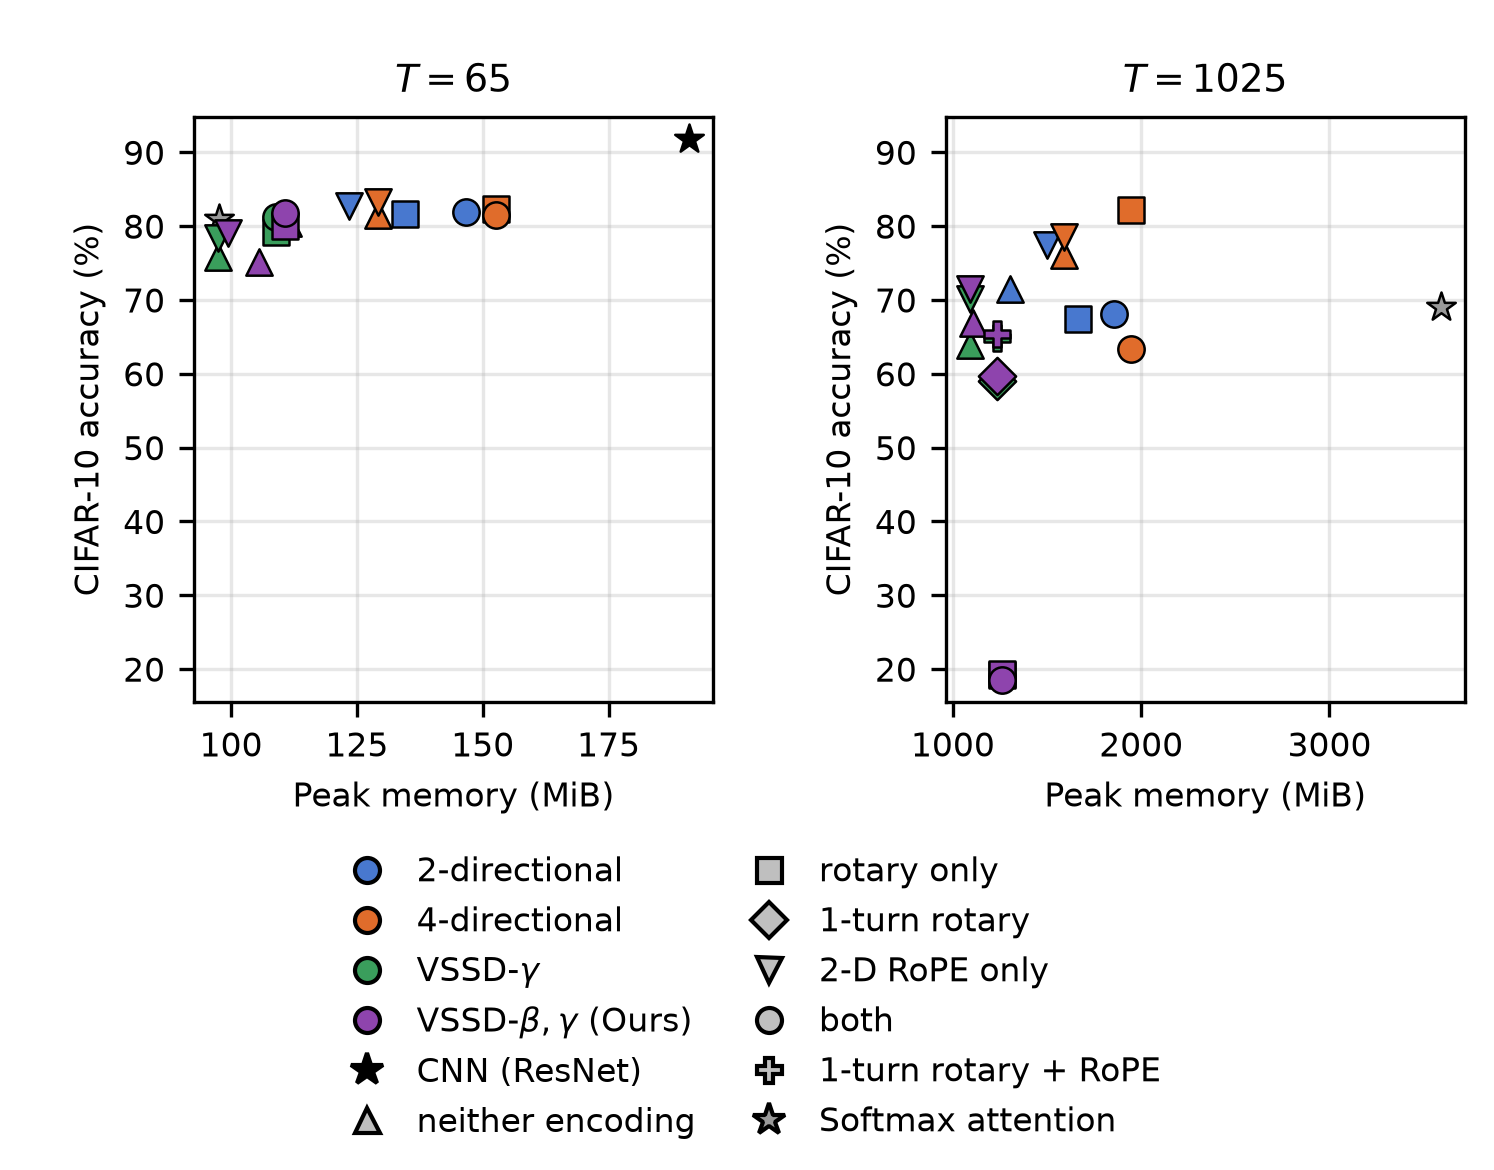
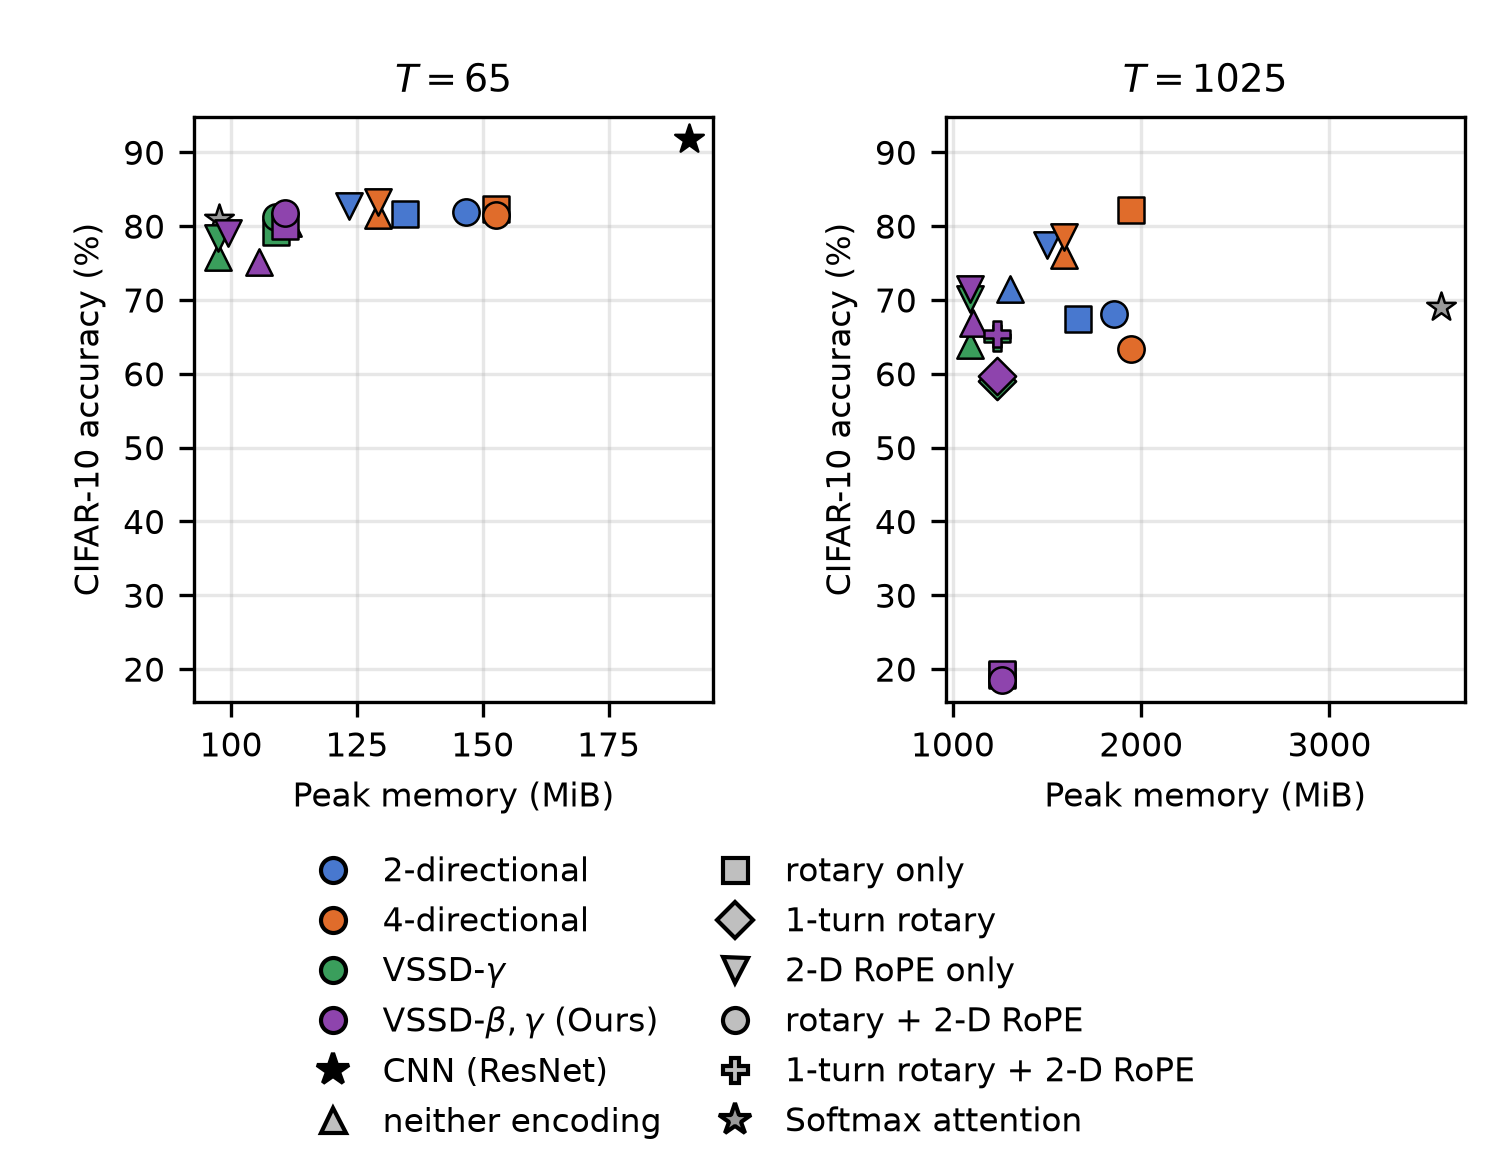
table/plot: name both encodings instead of saying "both"
With four encodings in the column, "both" does not say both of *which* -- the reader has to
work out which two of the four are meant. Once the 1-turn rows existed there were also two
different "both"s, "both" and "both (1 turn)", which is worse than vague.

  both            -> rotary + 2-D RoPE
  both (1 turn)   -> 1-turn rotary + 2-D RoPE
  rotary (1 turn) -> 1-turn rotary

"+" rather than ":" as the separator: a colon reads as "defines" or "elaborates", not
"combined with", and the caption already spelled the combined cell as "rotary + 2-D RoPE",
so a colon would have contradicted the text describing it. Both combined names are ordered
rotary-first for consistency.

The table strings carry LaTeX "$+$" while ENC_LABELS carries a plain "+", because the
latter are matplotlib legend strings where math delimiters would render literally.

Prose updated to match: the two Enc. legends in 8.6 and the "(1 turn) rows" pointer in 8.7,
plus 8.7's inline table header, which still read "1-turn rotary + RoPE".

Also fixed a caption claim the earlier row-merge had made stale: operator names print on
"the first row of its four-cell block", but the VSSD blocks have held six rows since the
1-turn rows moved inside them.

43 pages, no undefined references, overfull count unchanged at 4 (all pre-existing, none
the table -- the wider Enc. column still fits the text block, checked on the rendered page).

Changed region(s): [[0.2155, 0.7077, 0.8005, 0.9846]]

diff --git a/scripts/make_ablation_table.py b/scripts/make_ablation_table.py
@@ -43,18 +43,26 @@ OUT_DIR = REPO / "doc" / "attention"
 
 # Encoding keys. These are the literal strings printed in the table's Enc. column
 # and the keys for the plot's markers, so the two cannot disagree.
-NONE, ROT, ROPE, BOTH = "---", "rotary", "2-D RoPE", "both"
+#
+# The combined cells name both encodings rather than saying "both". With four encodings in
+# the column, "both" does not say both of *which* -- the reader has to look up which two of
+# the four it means, and once the 1-turn rows existed there were two different "both"s.
+NONE, ROT, ROPE = "---", "rotary", "2-D RoPE"
+BOTH = r"rotary $+$ 2-D RoPE"
 # The rotary with its angular spread pinned to one turn over the sequence, rather than a
 # learned cumulative angle whose spread grows with T. Measured only at T=1025, which is
 # where the learned form collapses; at T=65 its spread is already small enough that there
 # is nothing to repair.
-ROT1, BOTH1 = "rotary (1 turn)", "both (1 turn)"
+ROT1 = "1-turn rotary"
+BOTH1 = r"1-turn rotary $+$ 2-D RoPE"
 
 
 ENC_MARKERS = {NONE: "^", ROT: "s", ROPE: "v", BOTH: "o", ROT1: "D", BOTH1: "P"}
+# Plain "+" here, not the table's "$+$": these are matplotlib legend strings, where LaTeX
+# math delimiters would render literally.
 ENC_LABELS = {NONE: "neither encoding", ROT: "rotary only",
-              ROPE: "2-D RoPE only", BOTH: "both",
-              ROT1: "1-turn rotary", BOTH1: "1-turn rotary + RoPE"}
+              ROPE: "2-D RoPE only", BOTH: "rotary + 2-D RoPE",
+              ROT1: "1-turn rotary", BOTH1: "1-turn rotary + 2-D RoPE"}
 OP_COLOURS = {
     "2-dir SSD": "#4878CF",
     "4-dir SSD": "#E06C2B",
@@ -238,6 +246,12 @@ def write_paper_table(rows, out: Path) -> None:
     within a week if the paper's were maintained by hand.
     """
     lines = [
+        # Naming both encodings instead of "both" widened the Enc. column past \textwidth
+        # by 1.5pt. Nine columns pay \tabcolsep twice each, so trimming it from LaTeX's
+        # 6pt default to 5pt gives back 18pt -- ample, and less visible than shrinking the
+        # font or re-abbreviating the names the column exists to spell out. Scoped, so it
+        # does not leak into the other tables in this paper.
+        r"{\setlength{\tabcolsep}{5pt}",
         r"\begin{tabular}{llccccccc}",
         r"\toprule",
         r"& & & \multicolumn{3}{c}{$T{=}65$} & \multicolumn{3}{c}{$T{=}1025$} \\",
@@ -259,7 +273,7 @@ def write_paper_table(rows, out: Path) -> None:
             f"& {fmt(a and a['acc'], '.2f')} & {fmt(a and a['lat'], '.1f')} & {fmt(a and a['mem'], '.0f')} "
             f"& {long_cells(op, b)} \\\\"
         )
-    lines += [r"\bottomrule", r"\end{tabular}"]
+    lines += [r"\bottomrule", r"\end{tabular}}"]
     out.write_text("\n".join(lines) + "\n")
     print(f"wrote {out}")
 

diff --git a/doc/attention/mamba3_attention.tex b/doc/attention/mamba3_attention.tex
@@ -2346,8 +2346,9 @@ Mamba-3's own complex-SSM rotary of \S\ref{sec:rope} is a data-\emph{dependent}
 rotation instead: a learned per-token angle that accumulates \emph{inside} the
 recurrence, with no direct notion of pixel position at all. Below, rows marked
 the Enc.\ column reads ``2-D RoPE'' for the first alone, ``rotary'' for the second
-alone, ``both'' for both, and ``---'' for neither --- a $2\times2$ factorial per
-operator, so each encoding's own effect can be separated from the two interacting.
+alone, both named together when both are on, and ``---'' for neither --- a
+$2\times2$ factorial per operator, so each encoding's own effect can be separated
+from the two interacting.
 Table~\ref{tab:ablation} is the resulting $4\times4$ grid at
 both sequence lengths, on CIFAR-10 under one fixed recipe (80 epochs at $T{=}65$,
 30 at $T{=}1025$; single seed, no variance bounds), with the softmax and CNN
@@ -2390,13 +2391,14 @@ configuration differed by $0.67$ points, so gaps below $\sim$$0.7$ are not
 meaningful, and every cell is a single seed. The VSSD-$\beta,\gamma$ rows are not
 parameter-matched with the rest ($2.93$\,M against $2.71$\,M); see the Par.\ column.
 Enc.: ``---'' neither encoding, ``rotary'' Mamba-3's complex rotary alone,
-``2-D RoPE'' the external encoding alone, ``both'' rotary $+$ 2-D RoPE. ``n/a'' marks
+``2-D RoPE'' the external encoding alone, and the two named together when both are on.
+``1-turn'' marks the pinned-spread rotary of \eqref{eq:rope-turns}. ``n/a'' marks
 the CNN's $T{=}1025$ cells: a ResNet does not tokenise, so it has no sequence length,
 and the patch size it was nominally run at changes nothing about the network; it is
 reported at $T{=}65$ only, and is likewise absent from
 Fig.~\ref{fig:ablation-mem-acc}'s $T{=}1025$ panel. Units: Par.\ in millions of
 parameters, Acc.\ in \%, Lat.\ in ms, Mem in MiB. An operator's name is printed on the
-first row of its four-cell block only.}
+first row of its block only.}
 \label{tab:ablation}
 \small
 \input{ablation_table}
@@ -2608,11 +2610,11 @@ collapse into ordinary training, with nothing else changed.
 
 What it does \emph{not} do is make the rotary worth using at this length, and the
 full runs say so plainly. At $30$ epochs with the spread pinned to one turn
-(Table~\ref{tab:ablation}, the \texttt{(1 turn)} rows):
+(Table~\ref{tab:ablation}, the \texttt{1-turn} rows):
 \begin{center}\small
 \begin{tabular}{|l|cc|cc|}
 \hline
-$T{=}1025$ & no encoding & 1-turn rotary & 2-D RoPE & 1-turn rotary $+$ RoPE \\ \hline
+$T{=}1025$ & no encoding & 1-turn rotary & 2-D RoPE & 1-turn rotary $+$ 2-D RoPE \\ \hline
 VSSD-$\gamma$ & $63.88$ & $58.98$ & $\mathbf{70.10}$ & $64.83$ \\ \hline
 VSSD-$\beta,\gamma$ & $66.90$ & $59.69$ & $\mathbf{71.44}$ & $65.44$ \\ \hline
 \end{tabular}

diff --git a/doc/attention/ablation_table.tex b/doc/attention/ablation_table.tex
@@ -10,25 +10,25 @@ Softmax attention & --- & 2.69 & 80.92 & 7.7 & 98 & 69.06 & 308.4 & 3592 \\
 2-dir SSD & --- & 2.71 & 80.44 & 10.0 & 111 & 71.43 & 207.9 & 1306 \\
  & rotary & 2.74 & 81.59 & 11.6 & 135 & 67.47 & 198.2 & 1663 \\
  & 2-D RoPE & 2.71 & 82.78 & 15.8 & 123 & 77.44 & 298.2 & 1498 \\
- & both & 2.74 & 81.89 & 15.1 & 147 & 68.05 & 266.8 & 1855 \\
+ & rotary $+$ 2-D RoPE & 2.74 & 81.89 & 15.1 & 147 & 68.05 & 266.8 & 1855 \\
 \hline
 4-dir SSD & --- & 2.71 & 81.54 & 16.9 & 129 & 76.11 & 331.7 & 1589 \\
  & rotary & 2.74 & 82.27 & 15.6 & 153 & 82.18 & 342.9 & 1946 \\
  & 2-D RoPE & 2.71 & 83.28 & 19.2 & 129 & 78.49 & 435.3 & 1589 \\
- & both & 2.74 & 81.47 & 23.0 & 153 & 63.34 & 420.9 & 1946 \\
+ & rotary $+$ 2-D RoPE & 2.74 & 81.47 & 23.0 & 153 & 63.34 & 420.9 & 1946 \\
 \hline
 VSSD-$\gamma$ & --- & 2.71 & 75.76 & 9.1 & 97 & 63.88 & 167.4 & 1089 \\
  & rotary & 2.74 & 79.15 & 10.8 & 109 & 19.14 & 222.5 & 1261 \\
- & rotary (1 turn) & 2.74 & -- & -- & -- & 58.98 & 216.1 & 1233 \\
+ & 1-turn rotary & 2.74 & -- & -- & -- & 58.98 & 216.1 & 1233 \\
  & 2-D RoPE & 2.71 & 78.40 & 9.8 & 97 & 70.10 & 239.4 & 1089 \\
- & both & 2.74 & 81.18 & 13.8 & 109 & 18.94 & 285.4 & 1261 \\
- & both (1 turn) & 2.74 & -- & -- & -- & 64.83 & 260.4 & 1233 \\
+ & rotary $+$ 2-D RoPE & 2.74 & 81.18 & 13.8 & 109 & 18.94 & 285.4 & 1261 \\
+ & 1-turn rotary $+$ 2-D RoPE & 2.74 & -- & -- & -- & 64.83 & 260.4 & 1233 \\
 \hline
 VSSD-$\beta,\gamma$ & --- & 2.93 & 75.12 & 11.2 & 105 & 66.90 & 213.4 & 1104 \\
  & rotary & 2.97 & 79.99 & 13.7 & 111 & 19.35 & 297.0 & 1263 \\
- & rotary (1 turn) & 2.97 & -- & -- & -- & 59.69 & 315.5 & 1235 \\
+ & 1-turn rotary & 2.97 & -- & -- & -- & 59.69 & 315.5 & 1235 \\
  & 2-D RoPE & 2.93 & 79.11 & 16.1 & 99 & 71.44 & 278.5 & 1090 \\
- & both & 2.97 & 81.76 & 17.3 & 111 & 18.47 & 408.1 & 1263 \\
- & both (1 turn) & 2.97 & -- & -- & -- & 65.44 & 424.0 & 1236 \\
+ & rotary $+$ 2-D RoPE & 2.97 & 81.76 & 17.3 & 111 & 18.47 & 408.1 & 1263 \\
+ & 1-turn rotary $+$ 2-D RoPE & 2.97 & -- & -- & -- & 65.44 & 424.0 & 1236 \\
 \hline
 \end{tabular}}
